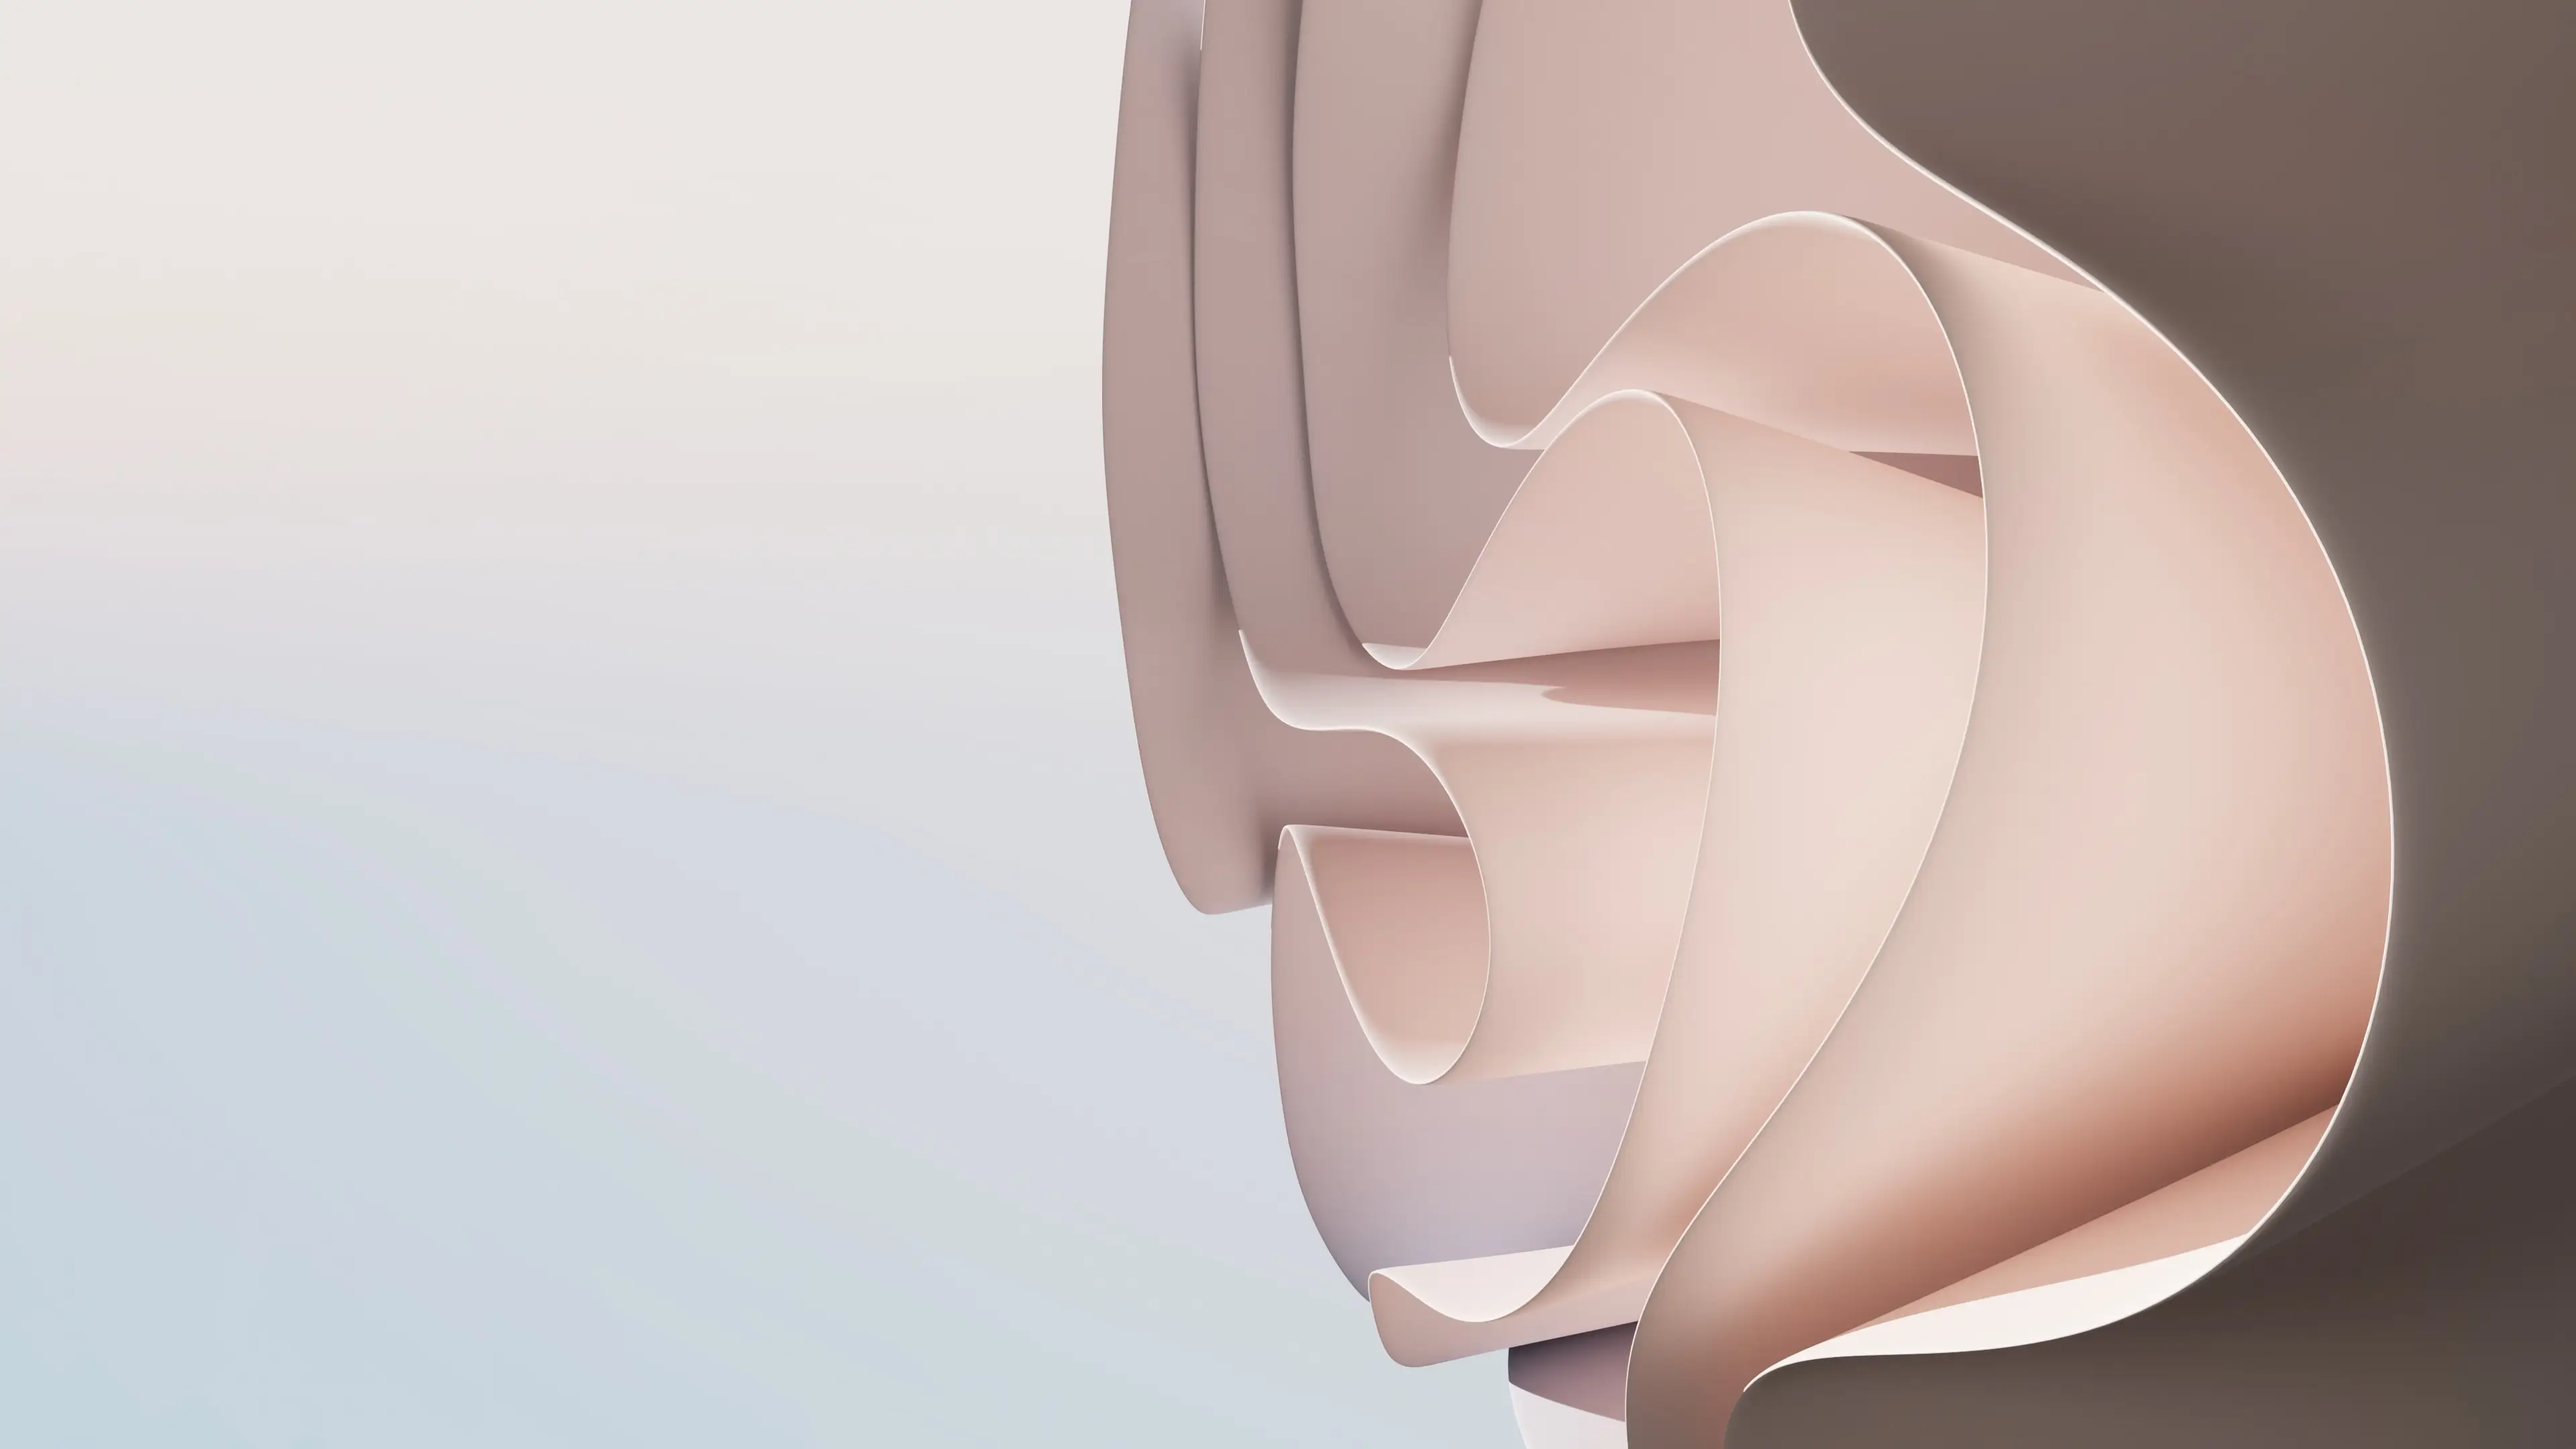
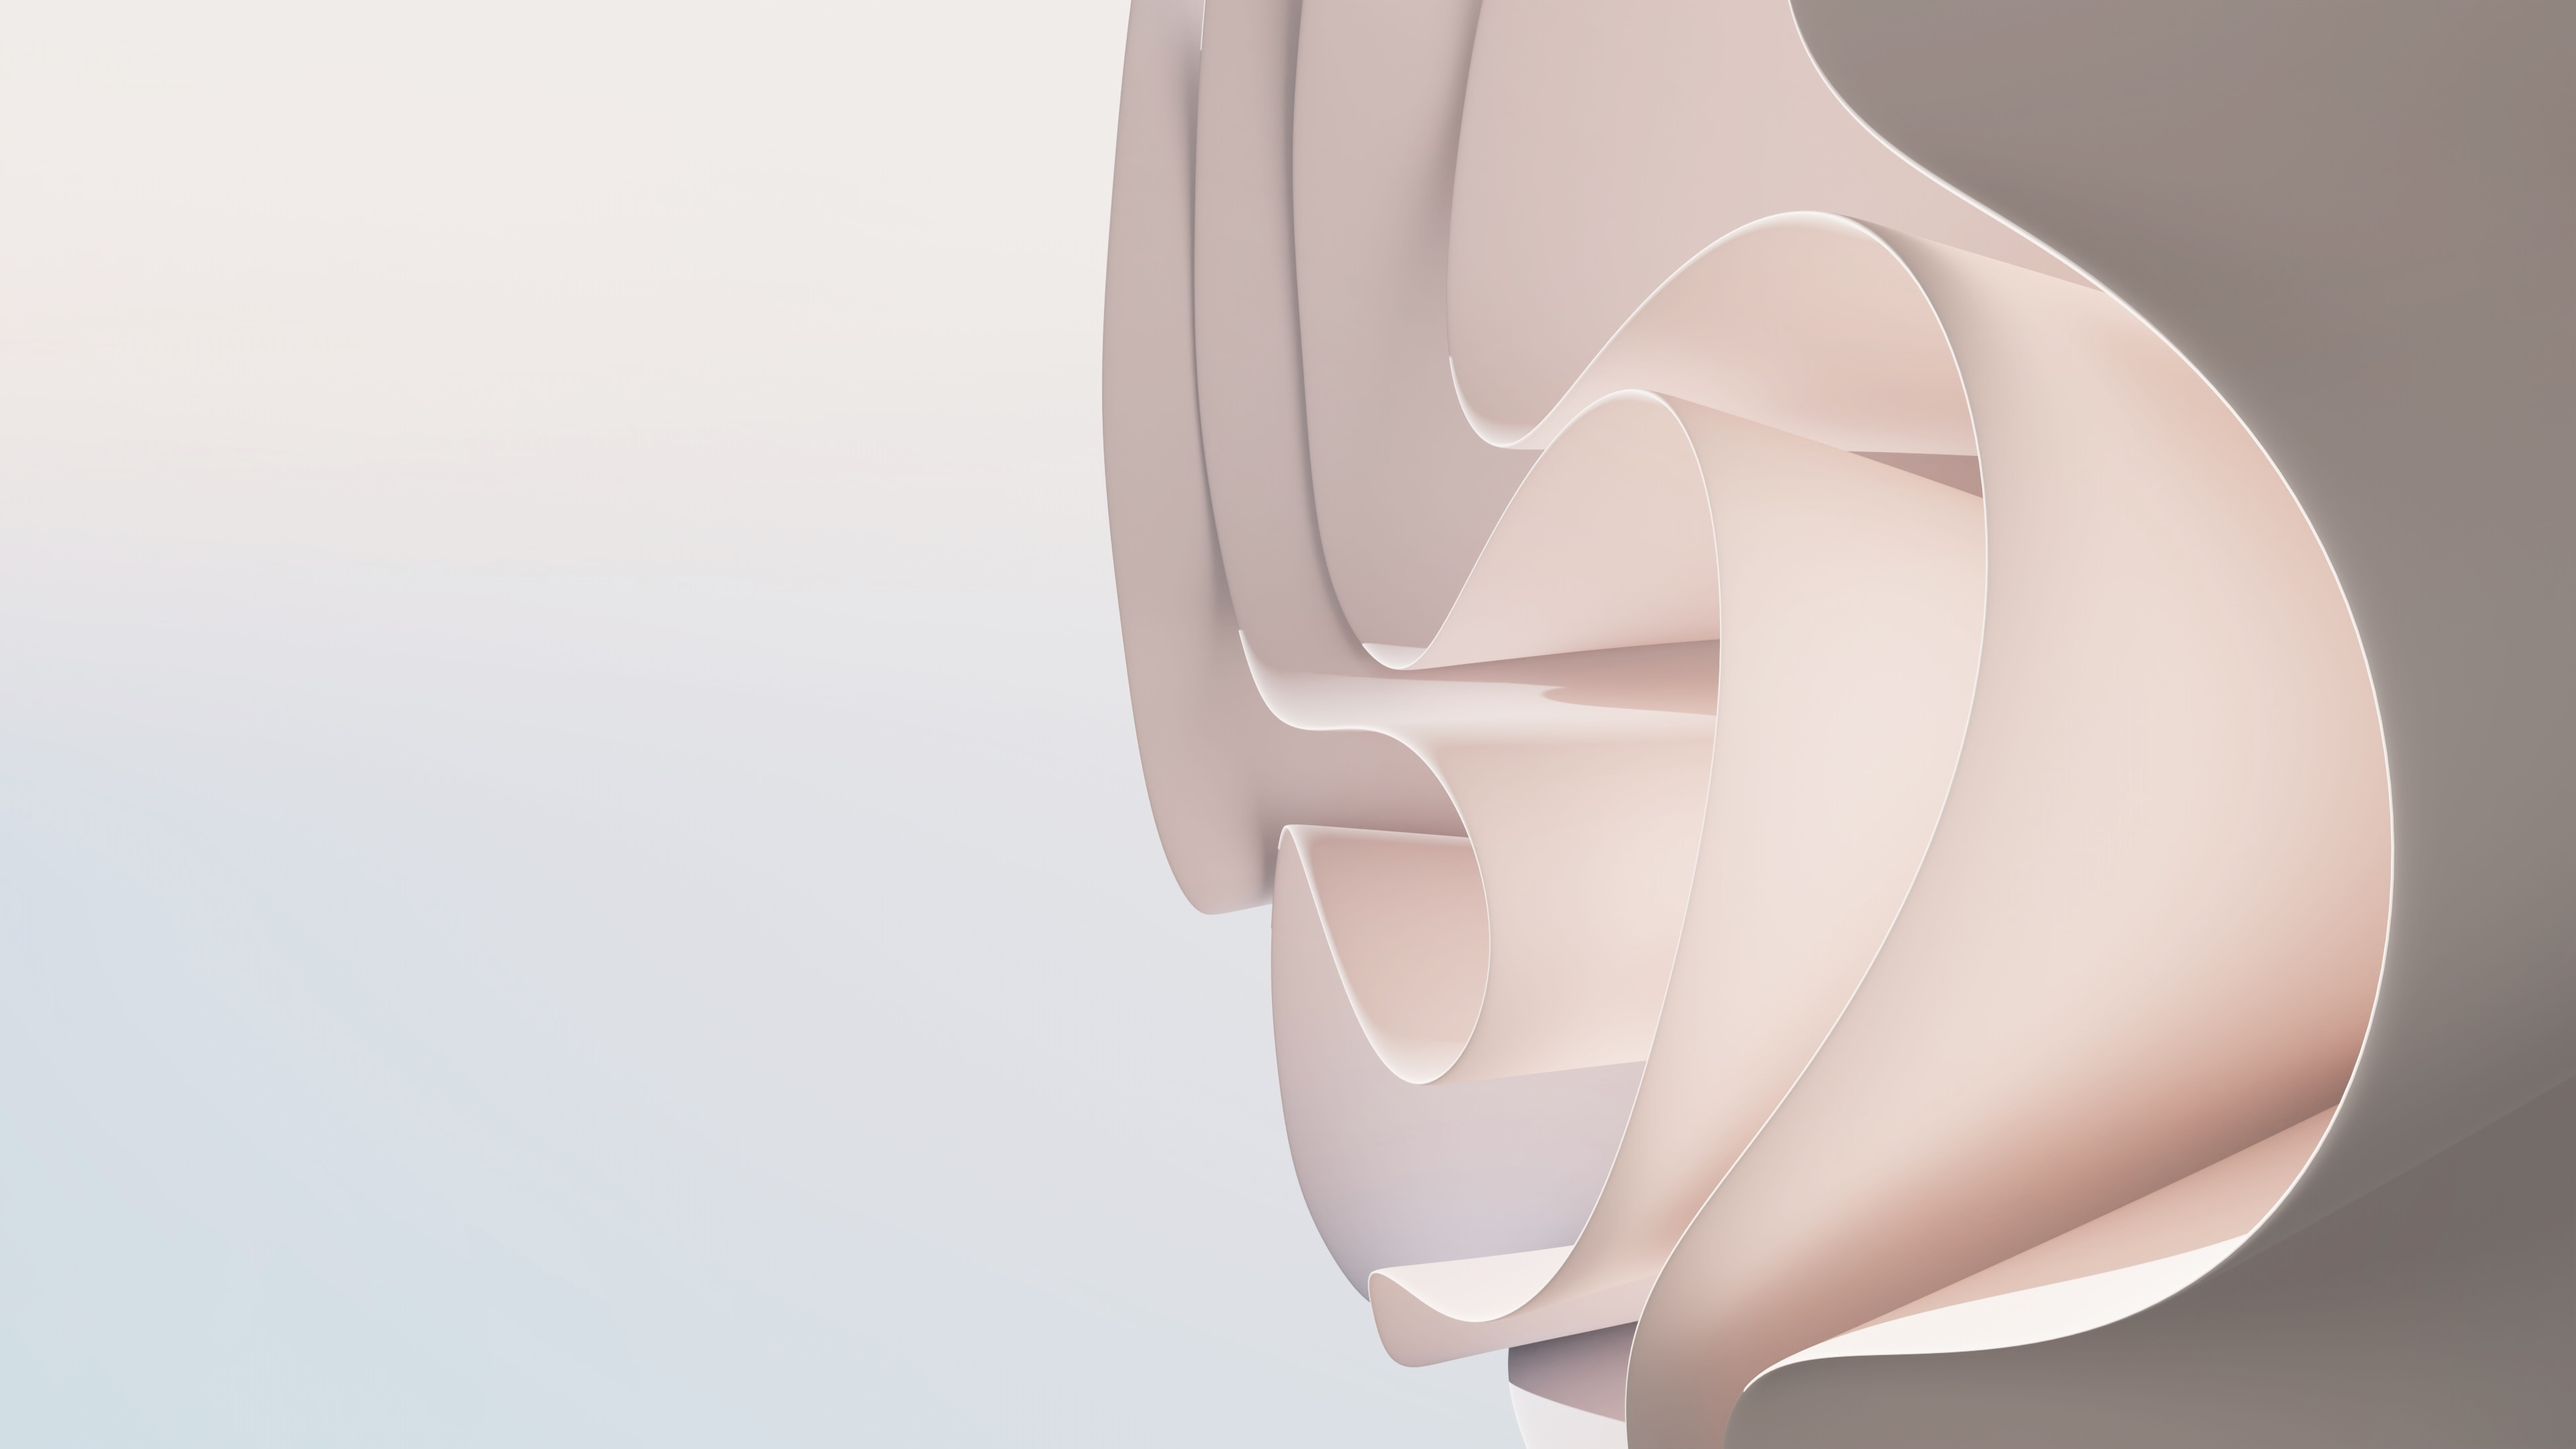
Add more styles for main page hero section

diff --git a/index.html b/index.html
@@ -40,8 +40,10 @@
         </header>
         <main>
             <section class="hero-section home">
-                <p class="hero-text">Lorem Ipsum Dolor sit Amet <span>Consectetur Elit Opito</span></p>
-                <p>Aliquid maiores neque quos error eaque magnam iure facilis fugit delectus quidem laudantium dolore, doloribus qui suscipit.</p>
+                <div class="text-container">
+                    <p class="hero-text">Lorem Ipsum Dolor sit Amet <span>Consectetur Elit Opito</span></p>
+                    <p>Aliquid maiores neque quos error eaque magnam iure facilis fugit delectus quidem laudantium dolore, doloribus qui suscipit.</p>
+                </div>
                 <div class="main-section-tab"></div>
             </section>
             <section class="main-section home">

diff --git a/css/styles.css b/css/styles.css
@@ -11,6 +11,9 @@ h2, h3, h4, h5, h6, p, a, button {
 body {
   position: relative;
 }
+body main > section {
+  padding: 1.5rem;
+}
 
 header {
   position: fixed;
@@ -108,7 +111,15 @@ header #nav-container .nav-menu-container {
 .hero-section.home {
   width: 100%;
   height: 100vh;
+  display: flex;
+  flex-direction: column;
+  justify-content: center;
   background-image: url("../media/background.webp");
+  background-size: cover;
+  background-position-x: 35%;
+}
+.hero-section.home .text-container .hero-text {
+  font-size: 2rem;
 }
 
 /*# sourceMappingURL=styles.css.map */

diff --git a/scss/_main-page.scss b/scss/_main-page.scss
@@ -1,5 +1,15 @@
 .hero-section.home {
     width: 100%;
     height: 100vh;
+    display: flex;
+    flex-direction: column;
+    justify-content: center;
     background-image: url('../media/background.webp');
-}
+    background-size: cover;
+    background-position-x: 35%;
+    .text-container {
+        .hero-text {
+            font-size: 2rem;
+        };
+    };
+};

diff --git a/scss/_general.scss b/scss/_general.scss
@@ -1,3 +1,8 @@
 body {
     position: relative;
+    main {
+        & > section {
+            padding: 1.5rem;
+        }
+    }
 };
